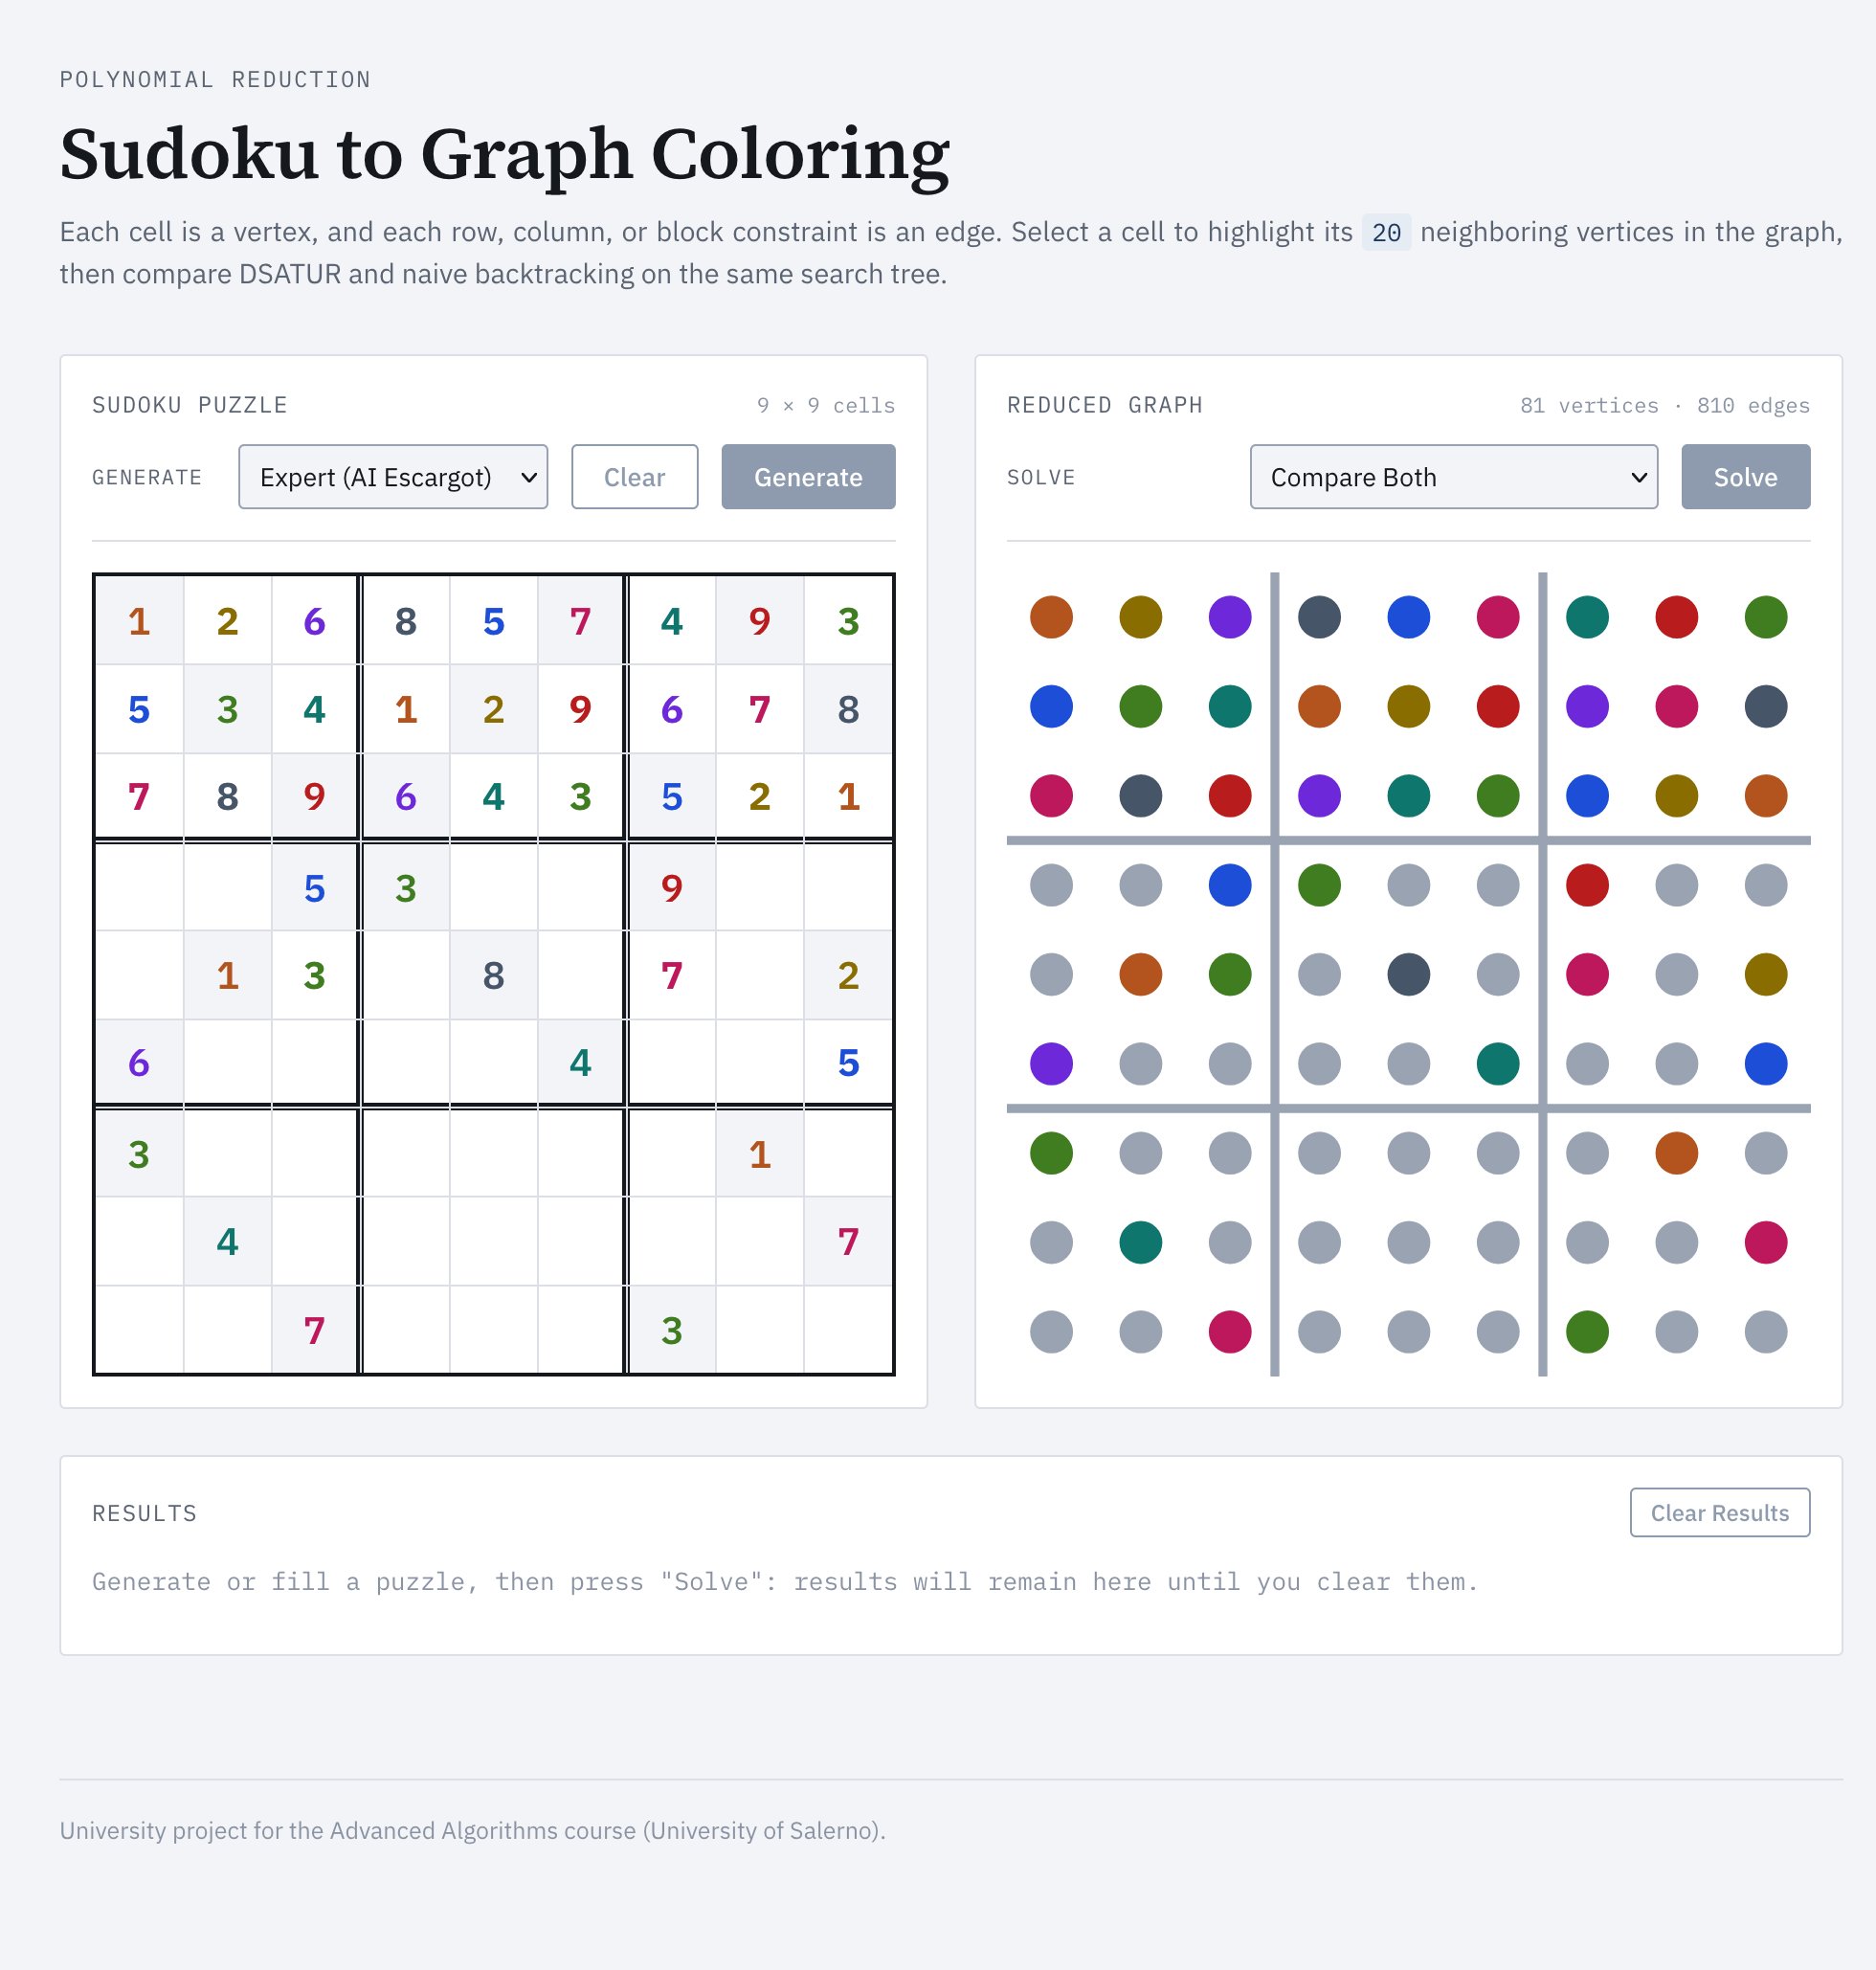
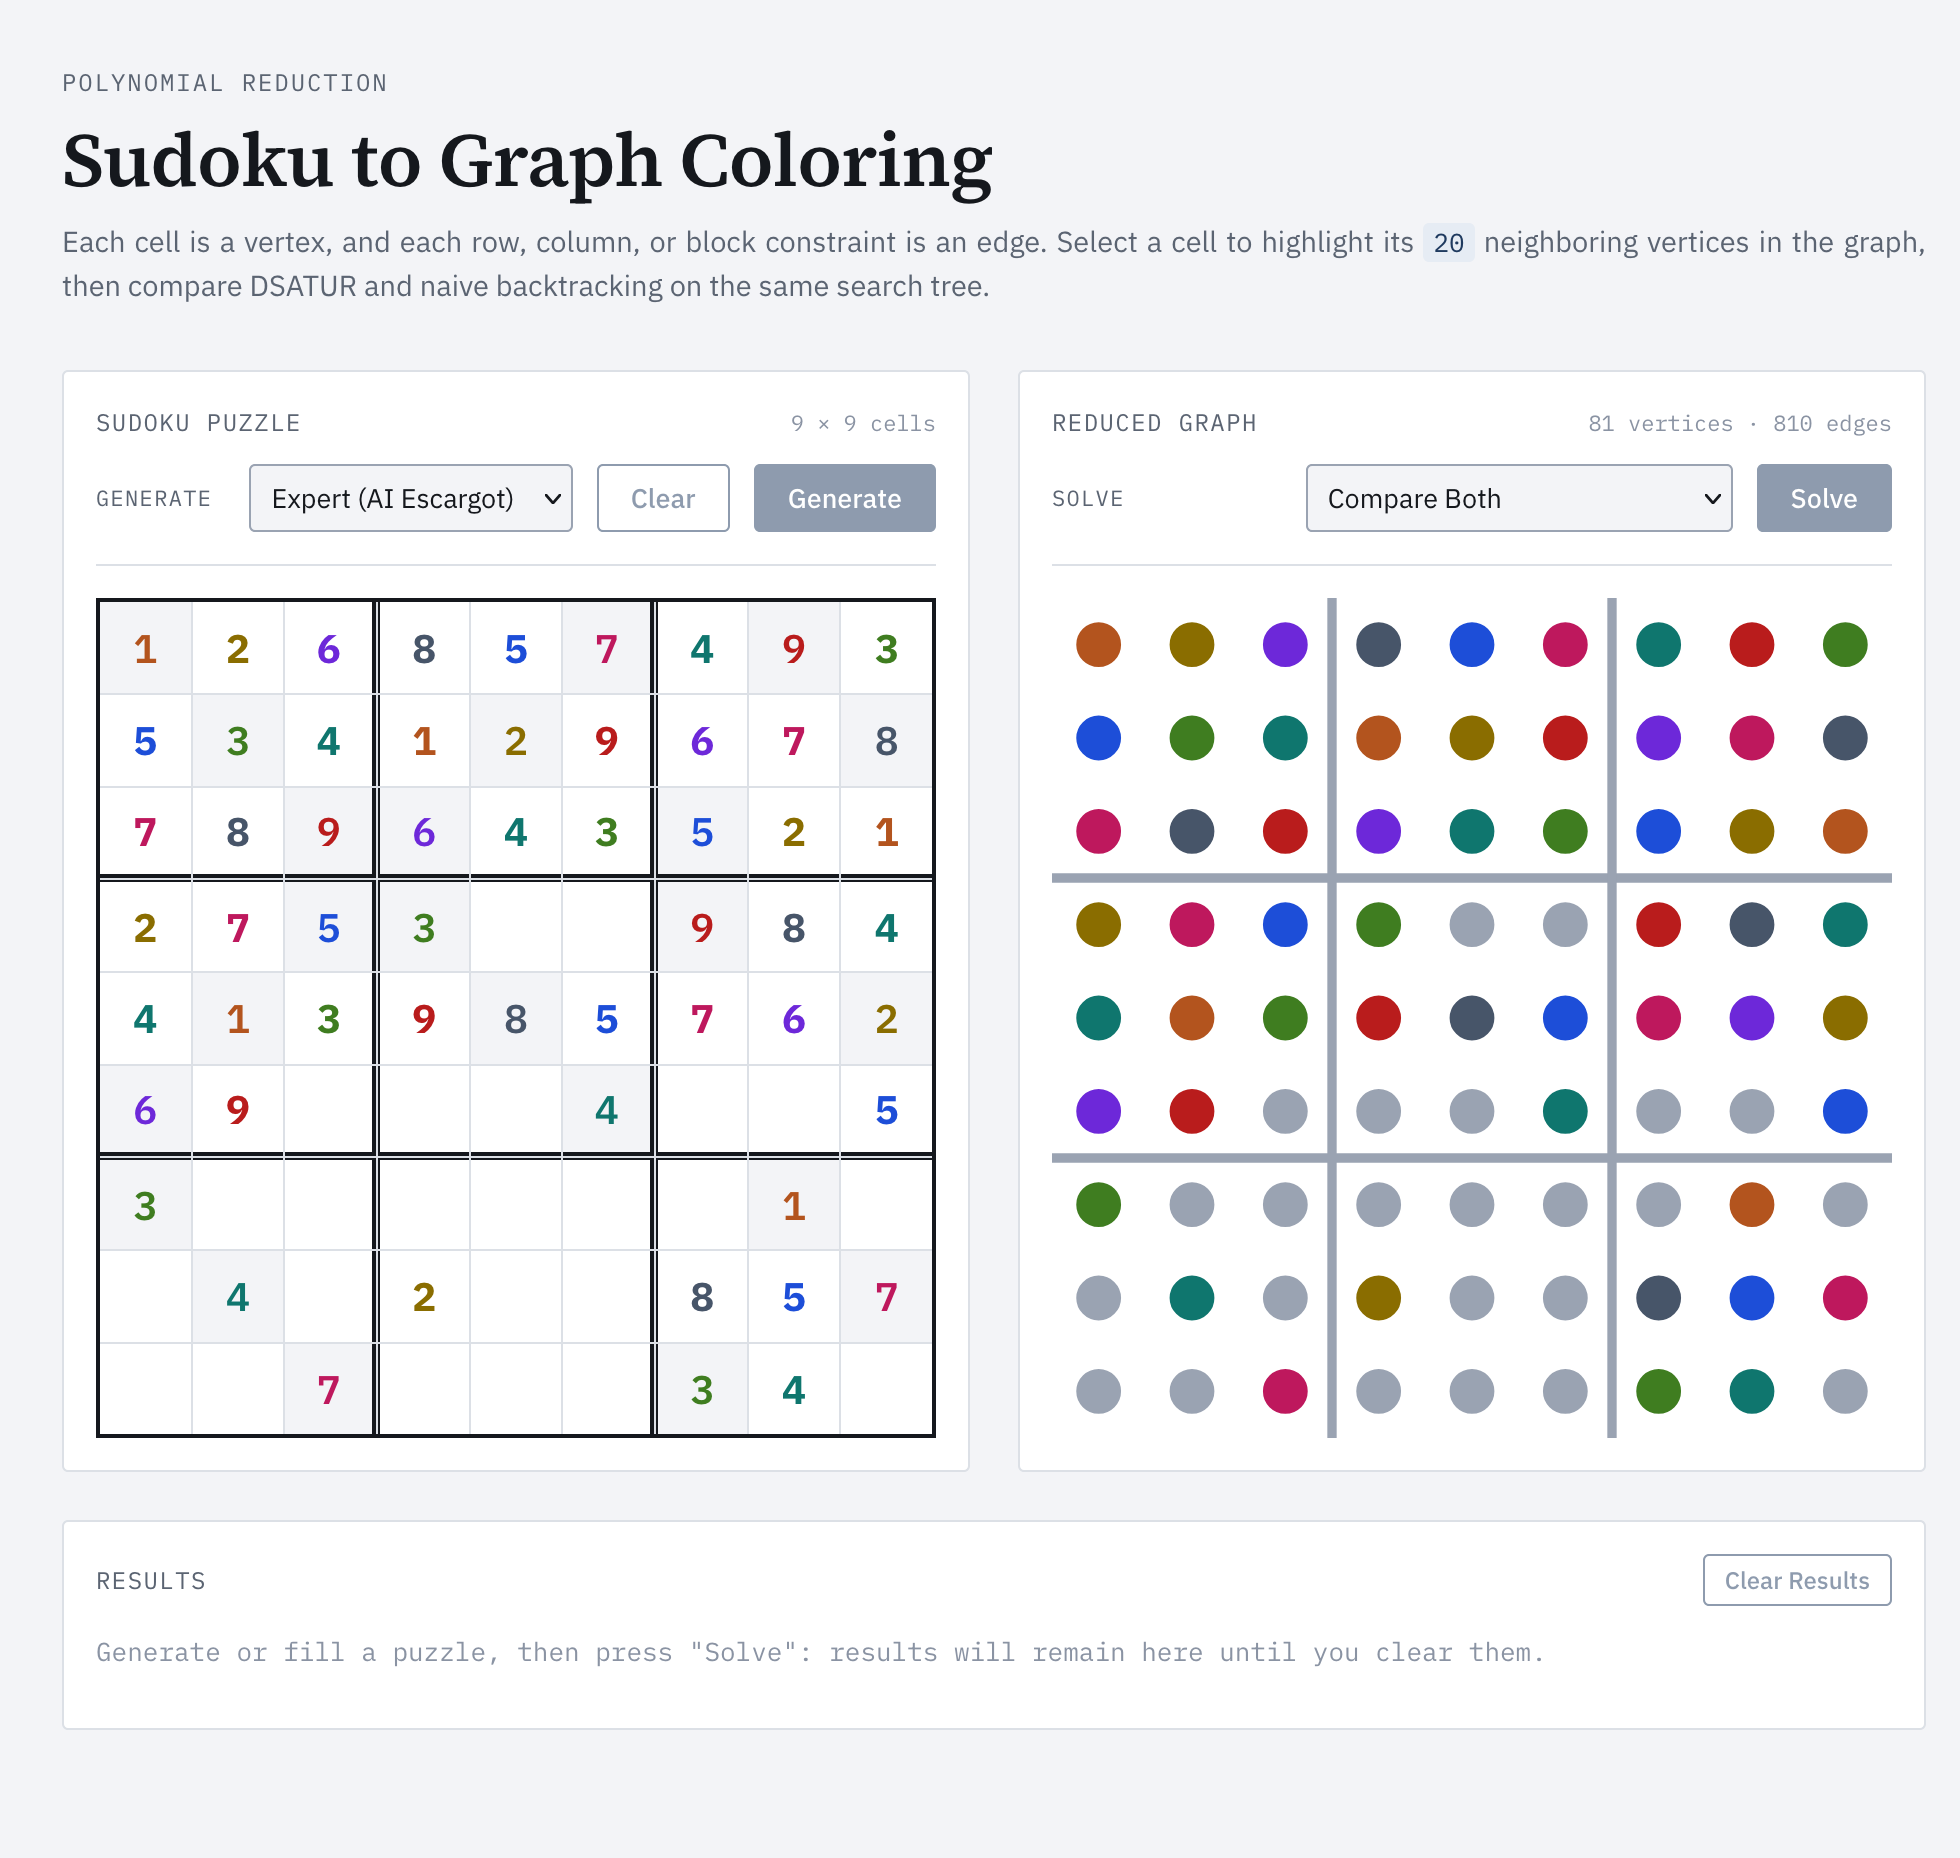
Added additional details about the repository

diff --git a/static/css/style.css b/static/css/style.css
@@ -376,16 +376,6 @@ table.stat-table {
 }
 .banner.visible { display: block; }
 
-footer {
-  margin-top: var(--space-8);
-  padding-top: var(--space-4);
-  border-top: 1px solid var(--line);
-  color: var(--ink-faint);
-  font-size: 12.5px;
-}
-
-footer a { color: var(--ink-soft); }
-
 /* Responsive */
 @media (max-width: 760px) {
   .duo { grid-template-columns: 1fr; }

diff --git a/templates/index.html b/templates/index.html
@@ -71,9 +71,6 @@
             </section>
             <div class="banner" id="error-banner" role="alert"></div>
          </main>
-         <footer>
-            University project for the Advanced Algorithms course (University of Salerno).
-         </footer>
       </div>
       <script src="{{ url_for('static', filename='js/main.js') }}"></script>
    </body>

diff --git a/README.md b/README.md
@@ -53,10 +53,6 @@ Same worst-case complexity (the problem is still NP-hard), but DSATUR explores a
     <img src="media/solved.png" alt="Reduction completed" width="80%">
 </div>
 
-## Info and credits
-This project was created for the course "Algoritmi Avanzati" at the Università degli Studi di Salerno. 
-- [Complexity and Completeness of Finding Another Solution and Its Application to Puzzles - Takayuki Yato](https://www.cs.umd.edu/users/gasarch/BLOGPAPERS/msasp.pdf)
-
 ## Contribution
 If you'd like to contribute, please follow these steps:
 - Fork the repository;